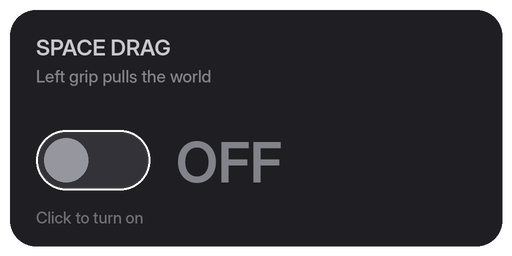
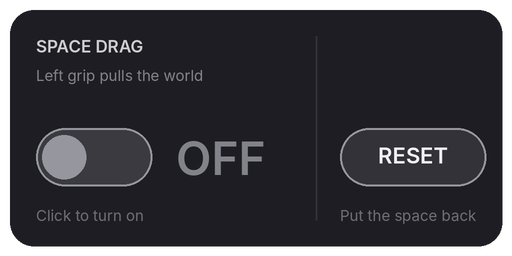
Space drag: Reset button on the SteamVR dashboard tile, switch and reset split by click position
Claude-Session: https://claude.ai/code/session_01TPjjZ9RmpKTEtbNmBrsFuW

diff --git a/tools/spacedrag_dash_images.py b/tools/spacedrag_dash_images.py
@@ -1,0 +1,46 @@
+"""Draws the Space Drag tile that shows in the SteamVR dashboard (SpaceDrag/openvr/dash_on.png and dash_off.png).
+The tile is 512 x 256. The left part (x < 316) is the on/off switch, the right part is the Reset button.
+SpaceDrag/Program.cs splits the click on the same x, so change both together."""
+import os
+import sys
+
+from PIL import Image, ImageDraw, ImageFont
+
+OUT = sys.argv[1] if len(sys.argv) > 1 else os.path.join(os.path.dirname(__file__), '..', 'SpaceDrag', 'openvr')
+S = 2  # draw at 2x, then shrink for smooth edges
+FONT = '/usr/share/fonts/opentype/inter/'
+
+
+def font(name, size):
+    return ImageFont.truetype(FONT + name, size * S)
+
+
+def tile(on):
+    im = Image.new('RGBA', (512 * S, 256 * S), (0, 0, 0, 0))
+    d = ImageDraw.Draw(im)
+    box = lambda x0, y0, x1, y1: [x0 * S, y0 * S, x1 * S, y1 * S]
+    d.rounded_rectangle(box(10, 10, 502, 246), radius=24 * S, fill=(21, 21, 26, 245))
+
+    d.text((36 * S, 36 * S), 'SPACE DRAG', font=font('Inter-SemiBold.otf', 17), fill=(205, 205, 210, 255))
+    d.text((36 * S, 66 * S), 'Left grip pulls the world', font=font('Inter-Regular.otf', 15), fill=(130, 130, 138, 255))
+
+    # on / off switch
+    track = (205, 205, 210, 255) if on else (58, 58, 64, 255)
+    d.rounded_rectangle(box(36, 128, 152, 186), radius=29 * S, fill=track, outline=(150, 150, 158, 255), width=2 * S)
+    kx = 124 if on else 64
+    d.ellipse(box(kx - 22, 135, kx + 22, 179), fill=(21, 21, 26, 255) if on else (150, 150, 158, 255))
+    d.text((176 * S, 130 * S), 'ON' if on else 'OFF', font=font('Inter-SemiBold.otf', 46), fill=(240, 240, 244, 255) if on else (130, 130, 138, 255))
+    d.text((36 * S, 206 * S), 'Click to turn off' if on else 'Click to turn on', font=font('Inter-Regular.otf', 15), fill=(110, 110, 118, 255))
+
+    # divider and reset button
+    d.line([316 * S, 36 * S, 316 * S, 220 * S], fill=(48, 48, 54, 255), width=2 * S)
+    d.rounded_rectangle(box(340, 128, 486, 186), radius=29 * S, fill=(50, 50, 56, 255), outline=(150, 150, 158, 255), width=2 * S)
+    f = font('Inter-SemiBold.otf', 22)
+    w = d.textlength('RESET', font=f)
+    d.text((413 * S - w / 2, 142 * S), 'RESET', font=f, fill=(240, 240, 244, 255))
+    d.text((340 * S, 206 * S), 'Put the space back', font=font('Inter-Regular.otf', 15), fill=(110, 110, 118, 255))
+    return im.resize((512, 256), Image.LANCZOS)
+
+
+for on in (True, False):
+    tile(on).save(os.path.join(OUT, 'dash_%s.png' % ('on' if on else 'off')))

diff --git a/SpaceDrag/Program.cs b/SpaceDrag/Program.cs
@@ -60,16 +60,24 @@ internal static class Program
         _shownEnabled = enabled;
     }
 
-    /// <summary>True when the switch was clicked since the last call.</summary>
-    private static bool SwitchClicked()
+    /// <summary>The tile is 512 wide: the left part (x below this) is the on/off switch, the right part is Reset.
+    /// tools/spacedrag_dash_images.py draws the tile on the same split.</summary>
+    private const float ResetSplitX = 316f;
+
+    /// <summary>What was clicked on the dashboard tile since the last call.</summary>
+    private static void TileClicks(out bool toggle, out bool reset)
     {
+        toggle = false;
+        reset = false;
         var overlay = OpenVR.Overlay;
-        if (overlay == null || _dashMain == 0) return false;
-        var clicked = false;
+        if (overlay == null || _dashMain == 0) return;
         var e = new VREvent_t();
         while (overlay.PollNextOverlayEvent(_dashMain, ref e, (uint)Marshal.SizeOf(e)))
-            if ((EVREventType)e.eventType == EVREventType.VREvent_MouseButtonDown) clicked = true;
-        return clicked;
+        {
+            if ((EVREventType)e.eventType != EVREventType.VREvent_MouseButtonDown) continue;
+            if (e.data.mouse.x < ResetSplitX) toggle = true;
+            else reset = true;
+        }
     }
 
     [STAThread]
@@ -292,8 +300,10 @@ internal static class Program
                 continue;
             }
 
-            // the switch in the SteamVR dashboard: one click flips "enabled" and saves it, so Aurora's card follows
-            if (SwitchClicked())
+            // the tile in the SteamVR dashboard: the switch flips "enabled" and saves it, so Aurora's card follows;
+            // the Reset button puts the play space back
+            TileClicks(out var clickedSwitch, out var clickedReset);
+            if (clickedSwitch)
             {
                 settings.Enabled = !settings.Enabled;
                 settings.Save(_settingsPath);
@@ -304,7 +314,7 @@ internal static class Program
             status.Enabled = settings.Enabled;
 
             // reset request from the card
-            if (settings.ResetCounter != seenReset)
+            if (settings.ResetCounter != seenReset || clickedReset)
             {
                 seenReset = settings.ResetCounter;
                 var setup = OpenVR.ChaperoneSetup;
